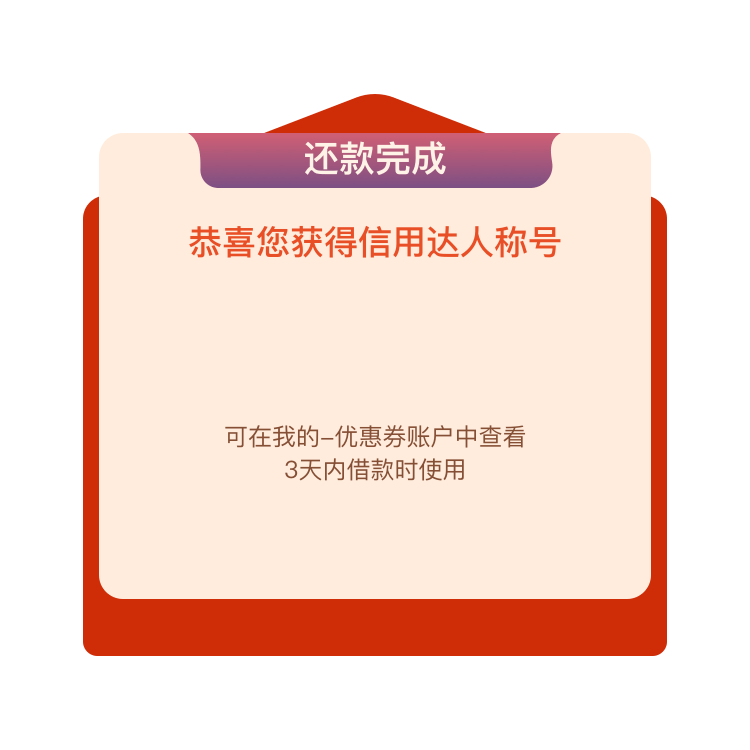
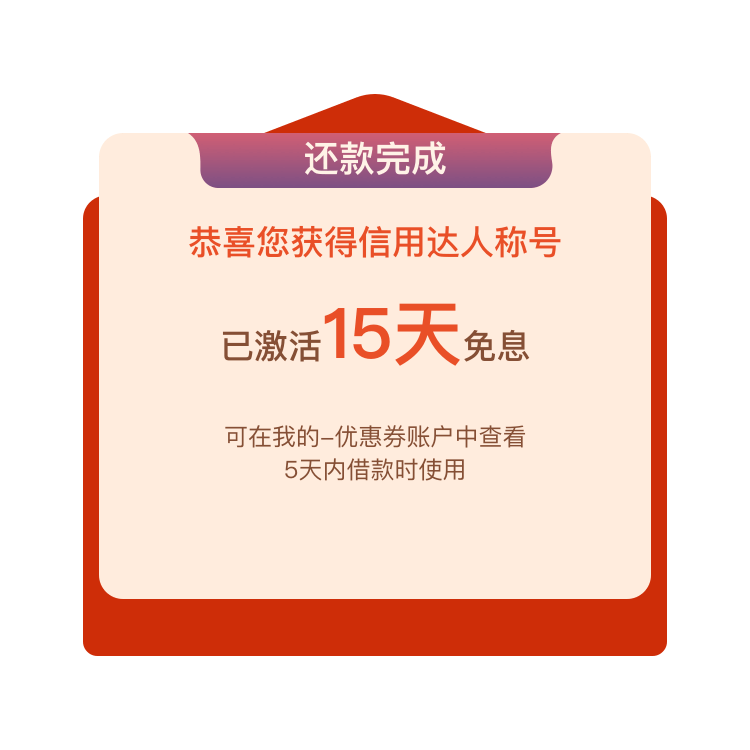
增加动画

Changed region(s): [[0.276, 0.3987, 0.7053, 0.4907], [0.368, 0.6133, 0.3987, 0.644]]

diff --git a/src/pages/order/order_repay_result/index.scss b/src/pages/order/order_repay_result/index.scss
@@ -174,7 +174,7 @@
 		}
 	}
 	.modal_tip_content {
-		background-image: url('./img/modal_bg.png');
+		background-image: url('../../../components/ActivityModal/img/reward_tip.png');
 		background-repeat: no-repeat;
 		background-size: 100% 100%;
 		margin-top: 50px;
@@ -188,34 +188,23 @@
       position: relative;
       top: 430px;
       left: 15px;
+      animation: fadeIn .8s linear;
     }
 	}
 	.modal_tip_content1 {
-		background-image: url('./img/modal_2_bg.png');
+		background-image: url('../../../components/ActivityModal/img/reward_result.png');
 		background-repeat: no-repeat;
 		background-size: 100% 100%;
 		margin-top: 50px;
 		width: 750px;
     height: 750px;
-    .title {
-      color: #854F35;
-      font-size: 34px;
-      font-weight: 500;
-      position: relative;
-      top: 280px;
-    }
-    .date {
-      font-size: 70px;
-      color: #E94F28;
-      font-weight: bold;
-    }
 		.modal_btn {
 			position: relative;
 			margin: 0 auto;
 			top: 300px;
 			width: 100%;
 			height: 350px;
-			background-image: url('./img/modal_btn.png');
+			background-image: url('../../../components/ActivityModal/img/reward_btn.png');
 			background-size: 100% 100%;
 		}
 	}
@@ -229,4 +218,15 @@
 		margin-left: -34px;
 		z-index: 1;
 	}
+}
+
+@keyframes fadeIn {
+	0% {
+    opacity: 0;
+    transform: scale(.3);
+  }
+  100% {
+    opacity: 1;
+    transform: scale(1);
+  }
 }

diff --git a/src/components/ActivityModal/index.js b/src/components/ActivityModal/index.js
@@ -61,12 +61,6 @@ class ActivityModal extends React.Component {
 							{modalType === 'reward_tip' ? (
 								<span className={styles.reward_tip__text}>{rewardDate}天</span>
 							) : null}
-							{modalType === 'reward_result' ? (
-								<span className={styles.reward_result__text}>
-									已激活<span className={styles.reward_result__text_color}>15天</span>免息
-								</span>
-							) : null}
-
 							{modalType === 'jd618' ? <img src={jd618} /> : null}
 							{modalType === 'freebill' ? <img src={freebill} /> : null}
 							{modalType === 'yhq7' ? <img src={yhq7} /> : null}

diff --git a/src/components/ActivityModal/index.scss b/src/components/ActivityModal/index.scss
@@ -140,7 +140,8 @@
 	text-shadow: 5px 5px 5px #a92900;
 	position: absolute;
 	top: 430px;
-	left: 380px;
+  left: 380px;
+  animation: fadeIn .8s linear;
 }
 
 .reward_result__text {
@@ -224,4 +225,15 @@
 		-webkit-transform: translateZ(0);
 		transform: translateZ(0);
 	}
+}
+
+@keyframes fadeIn {
+	0% {
+    opacity: 0;
+    transform: scale(.3);
+  }
+  100% {
+    opacity: 1;
+    transform: scale(1);
+  }
 }

diff --git a/src/pages/order/order_repay_result/index.js b/src/pages/order/order_repay_result/index.js
@@ -335,9 +335,6 @@ export default class Cashier extends React.PureComponent {
 
 				<Modal wrapClassName={styles.modal_tip} visible={reward_modal} transparent>
 					<div className={styles.modal_tip_content1}>
-						<p className={styles.title}>
-							已激活<span className={styles.date}>15天</span>免息
-						</p>
 						<div
 							onClick={() => {
 								this.props.history.replace({
